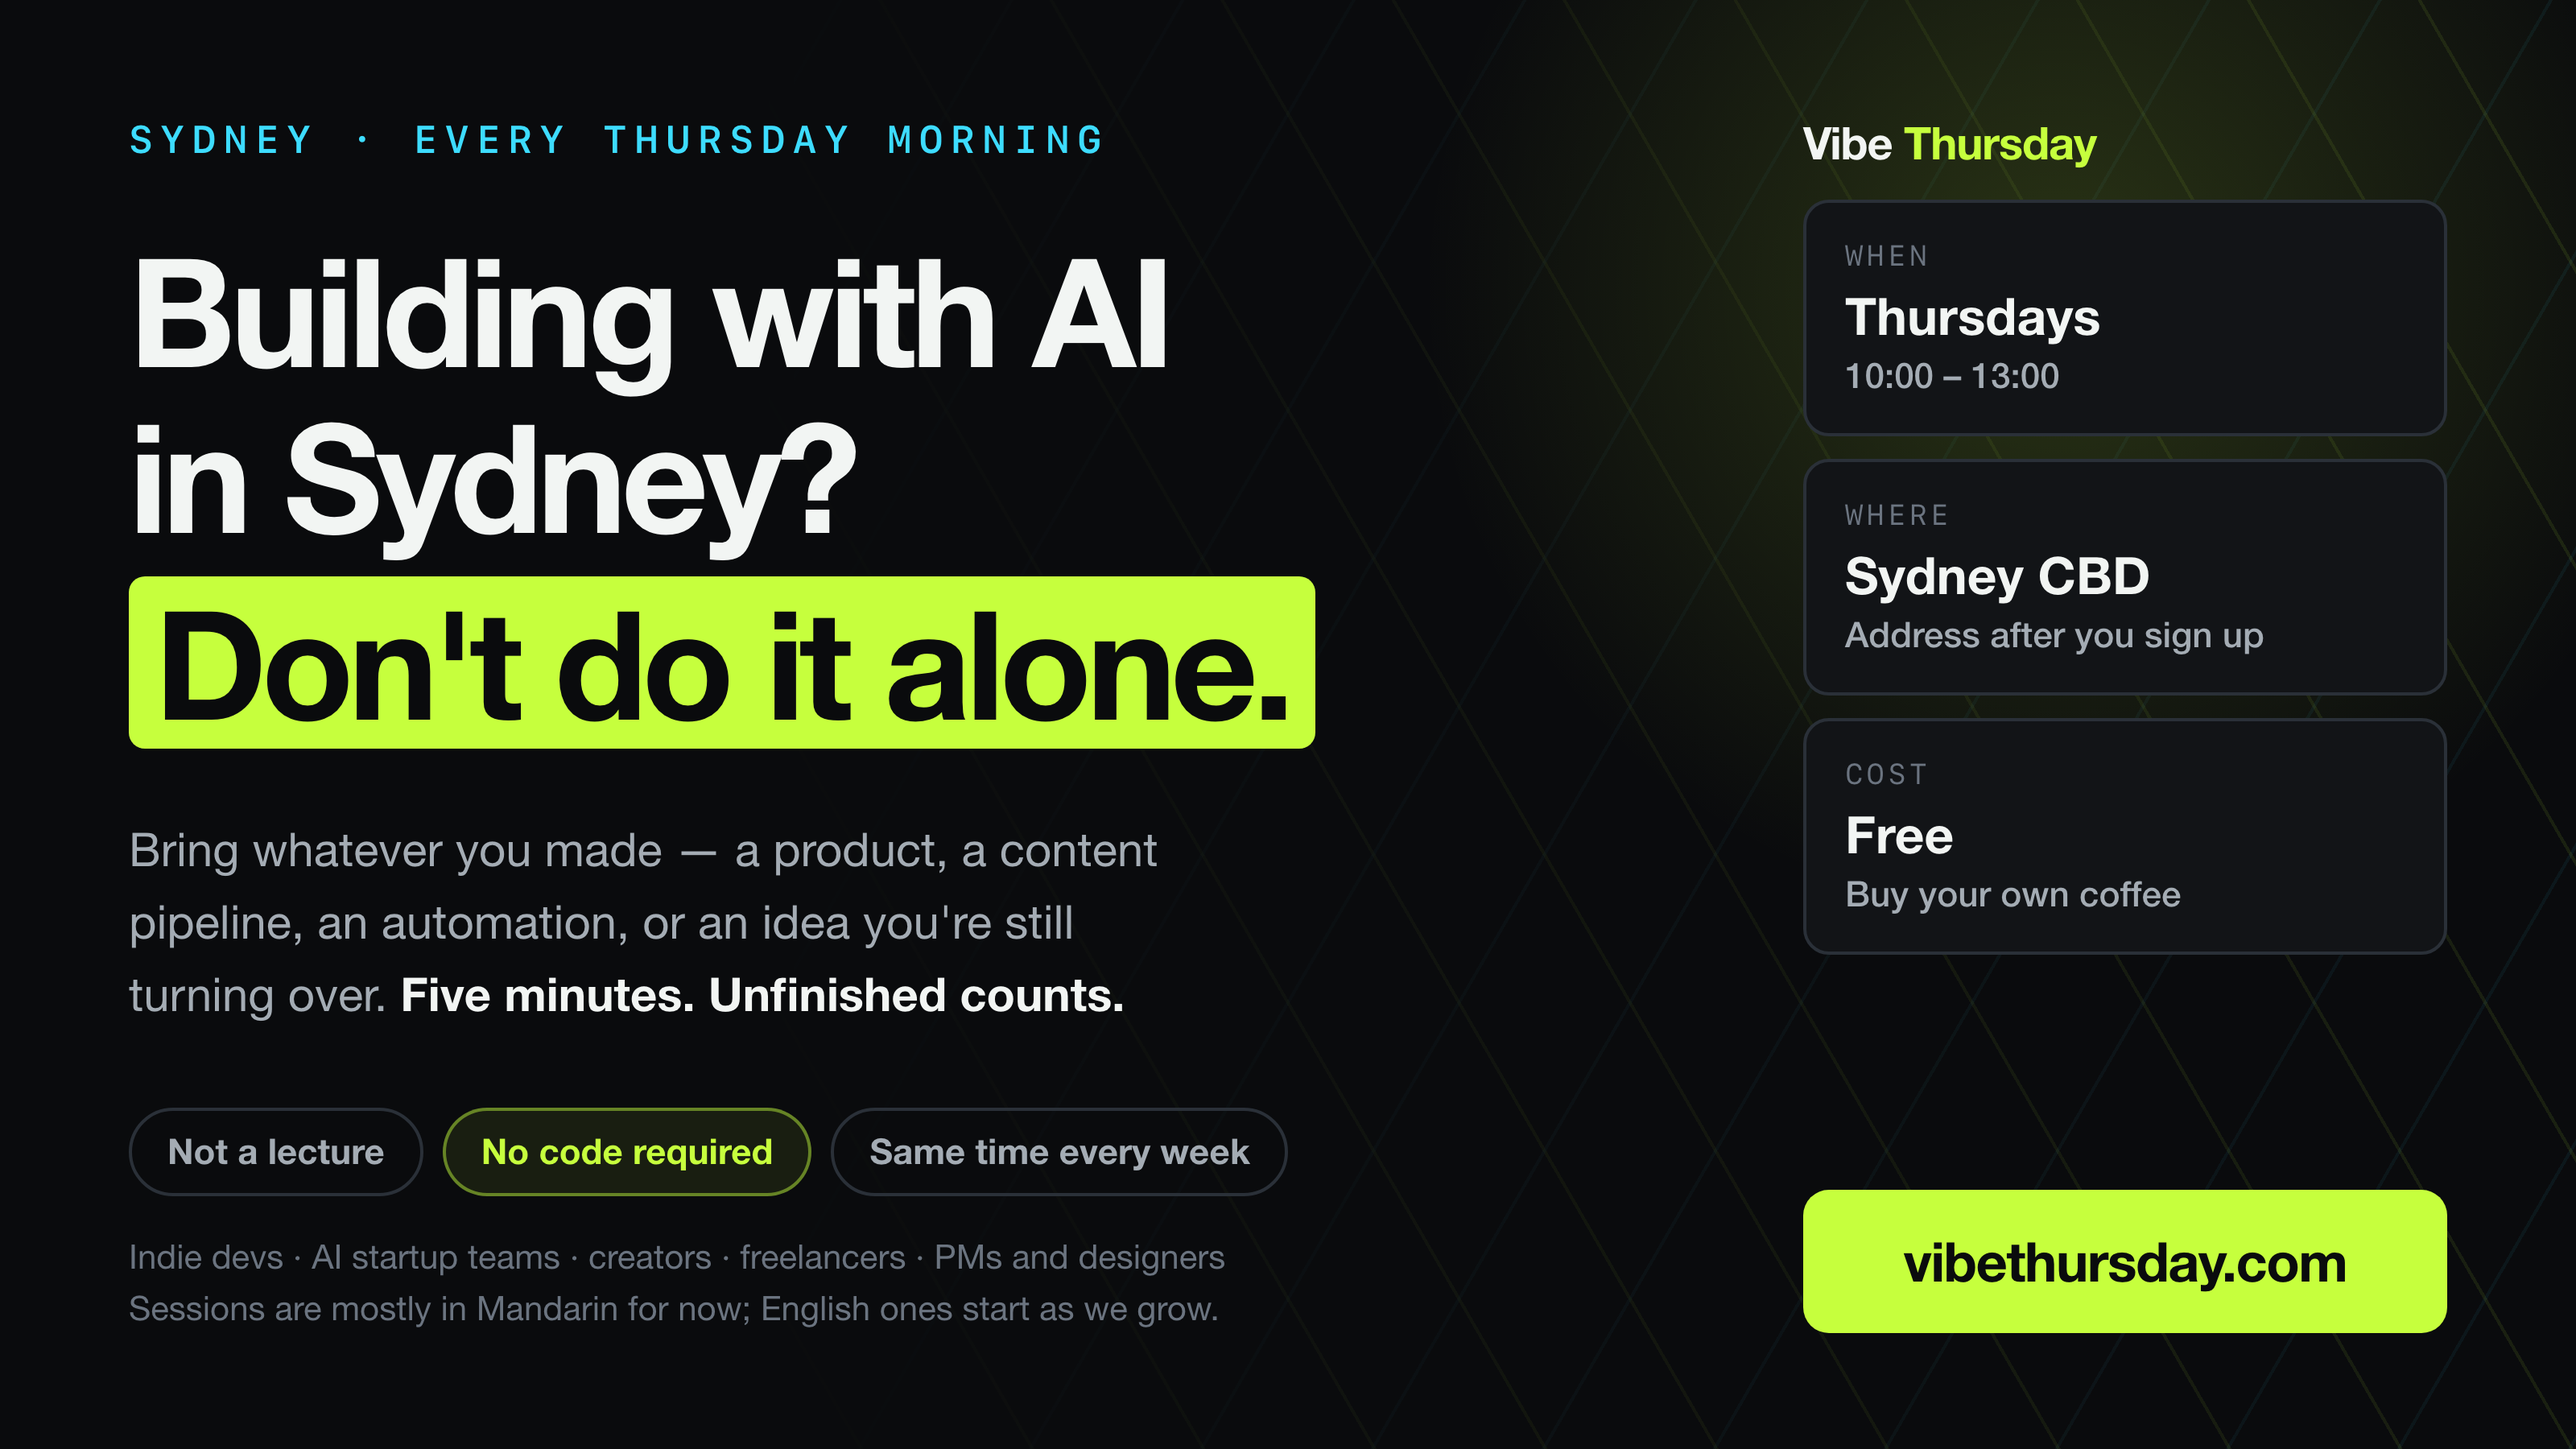
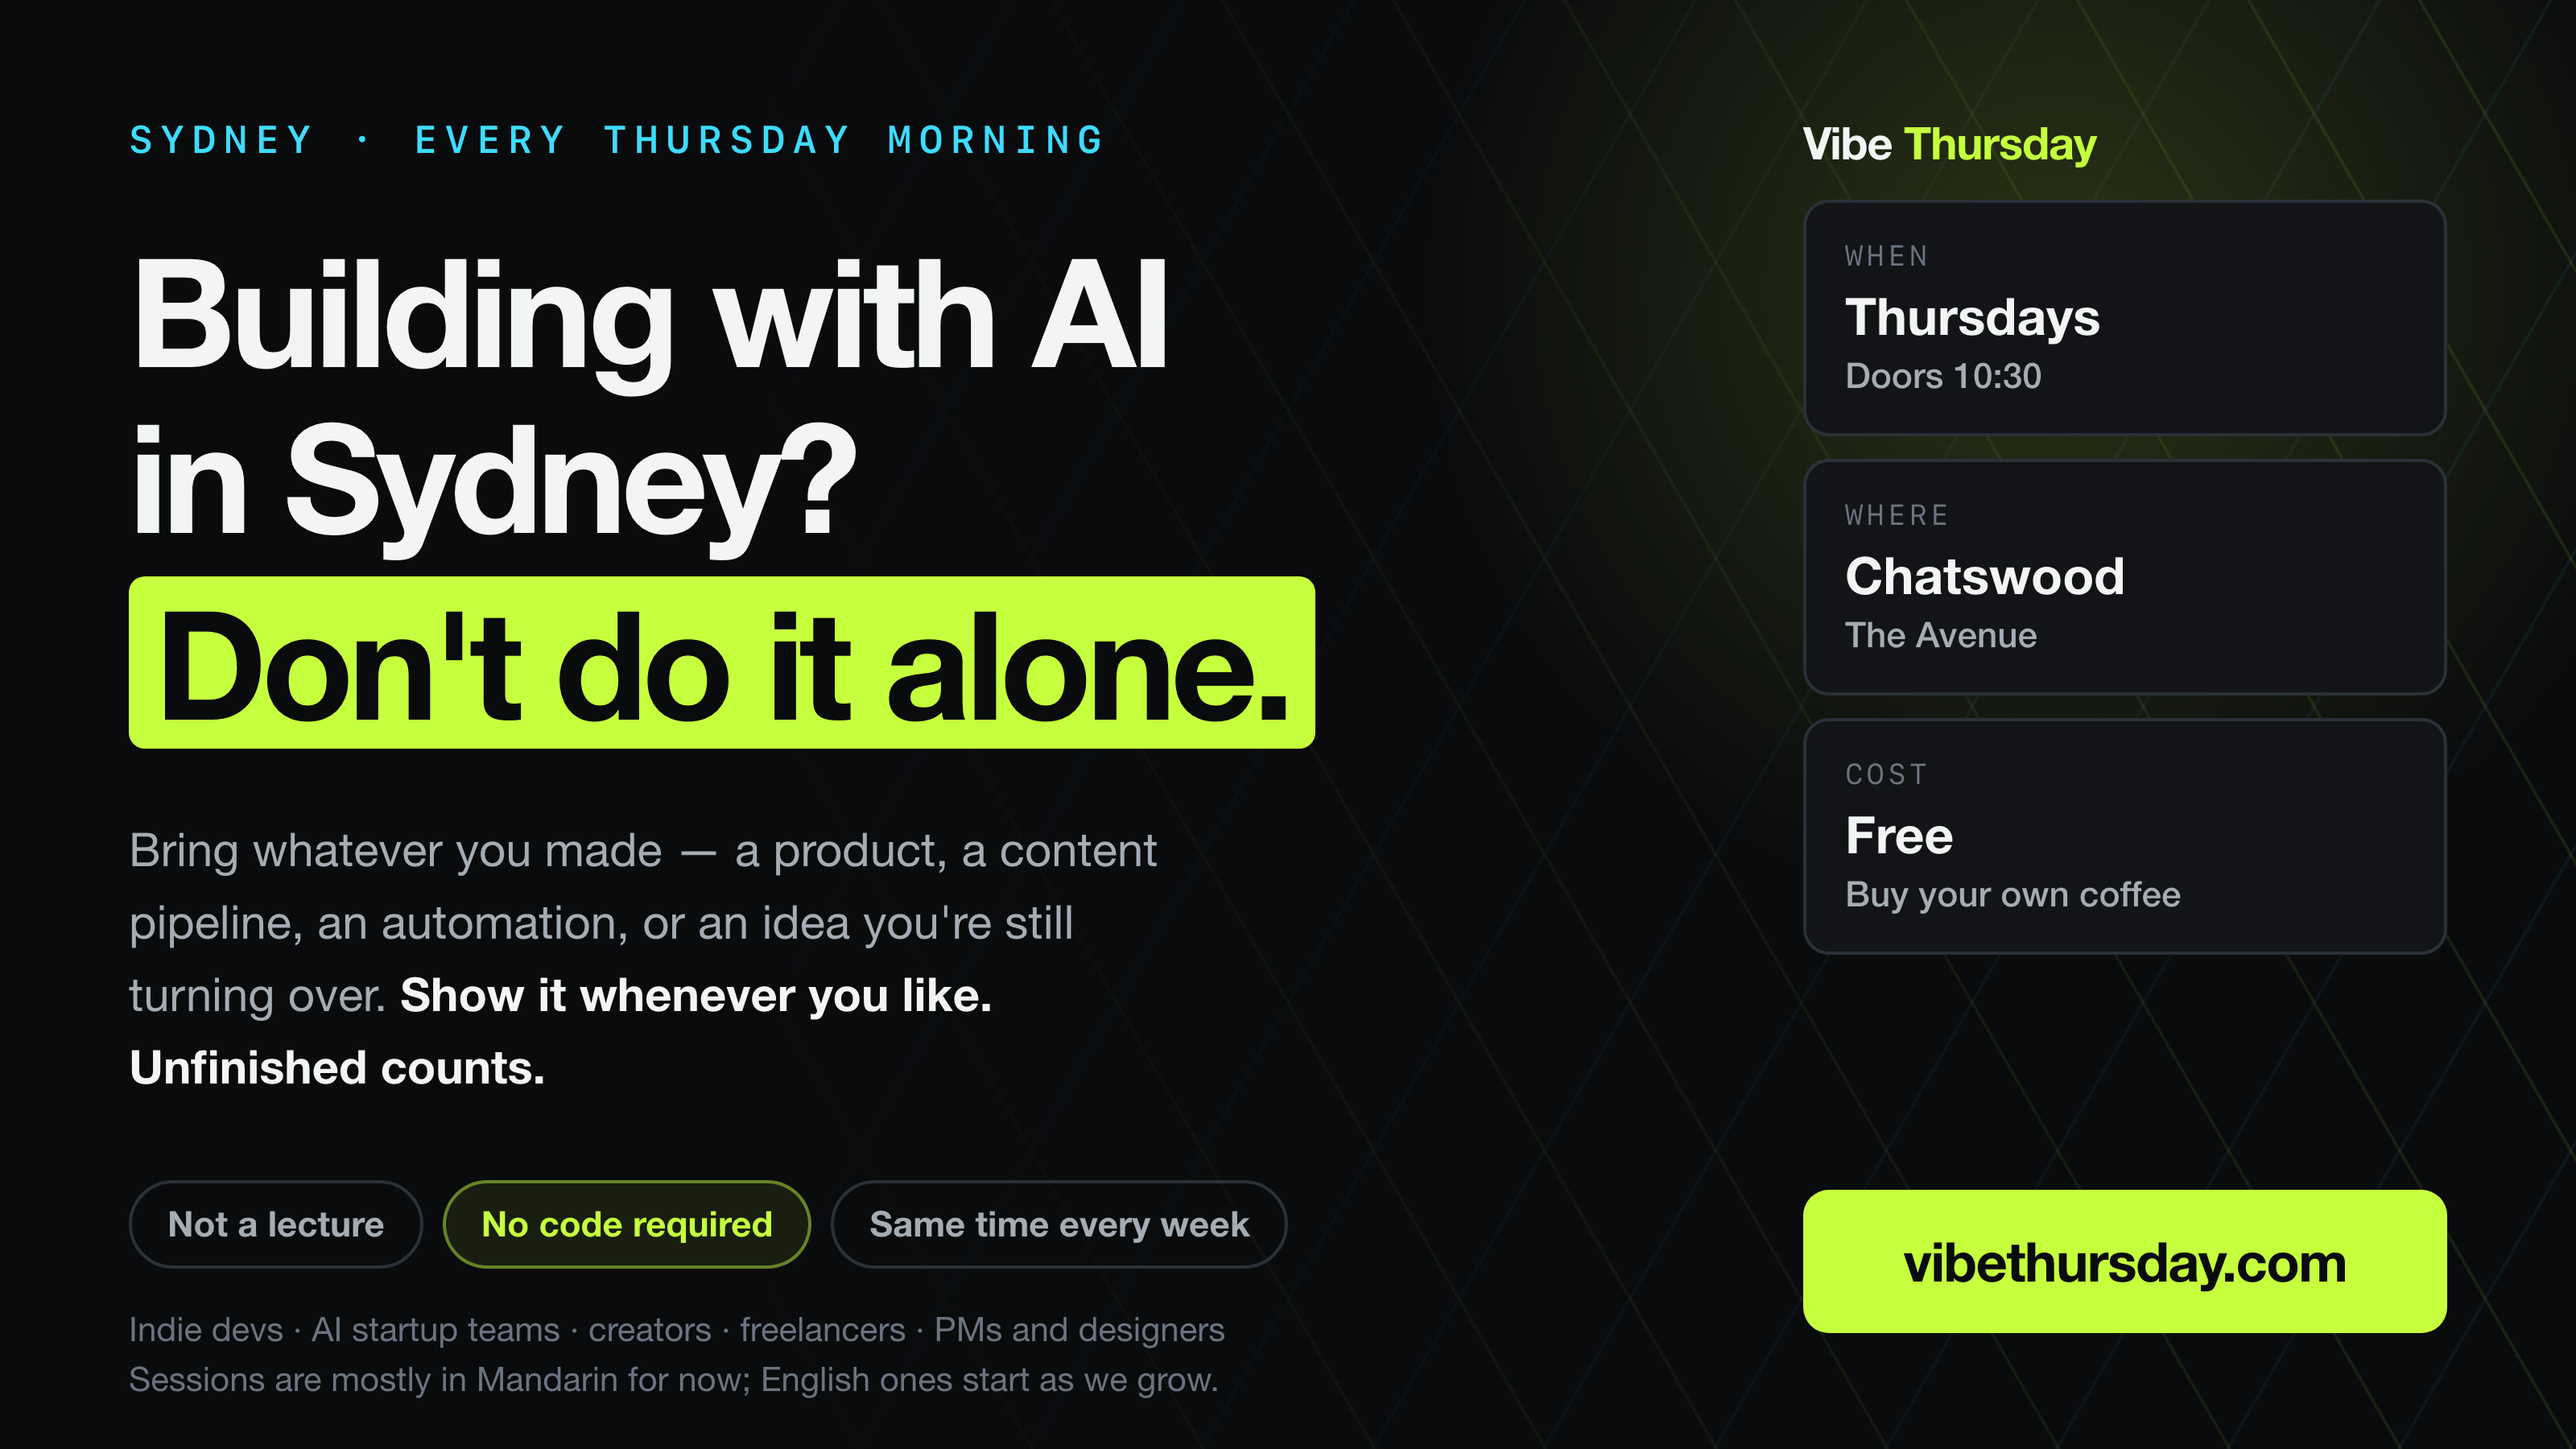
三张分享图在宣传错的地点、错的时间和一个退休了的形式
小红书封面和 X 卡写的还是「悉尼 CBD · 报名后告知」和「10:00–13:00」——搬去
Chatswood、改成 10:30 开门，这两张都没跟上，8 月 4 日生成之后就一直是错的。
三张（含 og）还都在承诺「讲 5 分钟」，而那个形式 8 月 13 日就被小桌制取代了。

只改字，排版一个像素没动：时间改成 10:30 开门，地点改成 Chatswood / The Avenue，
「带上来讲 5 分钟」改成「手上有东西，随时可以给大家看」，费用那句跟站上对齐。
英文那张 X 卡平时不渲染（等英文场开了才用），源文件一起改掉并重渲一次，
免得源和 PNG 又各说各的。

★ 它们能错六个星期而所有测试都绿，是因为那条「不许再承诺退休形式」的测试只扫
copy 文件——而这三张图的字烤在 art/*.html 和 build-og.sh 里。把测试的覆盖面扩到
分享图源文件，并且再加一条：凡是写了地点的卡，必须写站上首页那个地点和那个开门
时间，两者从 hero.facts 里读出来而不是写死——下次再搬场地，没重渲的卡当场挂测试。
（把地点改回「悉尼 CBD」验证过，它确实挂。）

更新记录 v3.0 的日期从 09-16 改成 09-17：16 号是宣布搬场地那天，而对来的人来说，
场地真正变了是 17 号那个早上——那个字段的定义就是「它成为事实的那天」。

diff --git a/art/x-poster-zh.html b/art/x-poster-zh.html
@@ -165,7 +165,7 @@
       </h1>
 
       <p class="sub">
-        产品、自动化、内容流水线、投放打法——带上来讲 <b>5 分钟</b>。<br>
+        产品、自动化、内容流水线、投放打法——<b>手上有东西随时可以看</b>。<br>
         <b>没做完的、只是个想法的，一样算。</b>
       </p>
 
@@ -188,15 +188,15 @@
 
       <dl class="fact">
         <dt>时间</dt>
-        <dd>每周四<small>10:00 – 13:00</small></dd>
+        <dd>每周四<small>10:30 开门</small></dd>
       </dl>
       <dl class="fact">
         <dt>地点</dt>
-        <dd>悉尼 CBD<small>报名后告知</small></dd>
+        <dd>Chatswood<small>The Avenue</small></dd>
       </dl>
       <dl class="fact">
         <dt>费用</dt>
-        <dd>免费<small>咖啡自理</small></dd>
+        <dd>免费<small>点杯喝的就行</small></dd>
       </dl>
 
       <div class="url">vibethursday.com</div>

diff --git a/art/xhs-poster.html b/art/xhs-poster.html
@@ -188,7 +188,7 @@
 
     <p class="sub">
       产品、自动化、内容流水线、投放打法——<br>
-      带上来讲 <b>5 分钟</b>。<b>没做完的一样算。</b>
+      手上有东西，<b>随时可以给大家看</b>。<b>没做完的一样算。</b>
     </p>
 
     <div class="chips">
@@ -202,15 +202,15 @@
     <dl class="facts">
       <div class="fact">
         <dt>时间</dt>
-        <dd>每周四<br><small>10:00–13:00</small></dd>
+        <dd>每周四<br><small>10:30 开门</small></dd>
       </div>
       <div class="fact">
         <dt>地点</dt>
-        <dd>悉尼 CBD<br><small>报名后告知</small></dd>
+        <dd>Chatswood<br><small>The Avenue</small></dd>
       </div>
       <div class="fact">
         <dt>费用</dt>
-        <dd>免费<br><small>咖啡自理</small></dd>
+        <dd>免费<br><small>点杯喝的就行</small></dd>
       </div>
     </dl>
 

diff --git a/art/x-poster-en.html b/art/x-poster-en.html
@@ -168,7 +168,7 @@
 
       <p class="sub">
         Bring whatever you made — a product, a content pipeline, an automation,
-        or an idea you're still turning over. <b>Five minutes. Unfinished counts.</b>
+        or an idea you're still turning over. <b>Show it whenever you like. Unfinished counts.</b>
       </p>
 
       <div class="grow"></div>
@@ -190,11 +190,11 @@
 
       <dl class="fact">
         <dt>When</dt>
-        <dd>Thursdays<small>10:00 – 13:00</small></dd>
+        <dd>Thursdays<small>Doors 10:30</small></dd>
       </dl>
       <dl class="fact">
         <dt>Where</dt>
-        <dd>Sydney CBD<small>Address after you sign up</small></dd>
+        <dd>Chatswood<small>The Avenue</small></dd>
       </dl>
       <dl class="fact">
         <dt>Cost</dt>

diff --git a/src/lib/changelog.ts b/src/lib/changelog.ts
@@ -74,7 +74,12 @@ export const RELEASES: readonly Release[] = [
   },
   {
     version: "3.0",
-    date: "2026-09-16",
+    // ⚠ 09-17, not 09-16. The 16th is when the move was announced and the
+    // site was updated; the room only changed for anybody on the morning of
+    // the 17th, which is the first session that actually ran there. The field
+    // above is documented as the date it became true, and for a changelog
+    // about the meetup rather than about the website, that is the morning.
+    date: "2026-09-17",
     kind: "major",
     // The venue and the opening time, stated as the home page already states
     // them. Nothing about why, nothing about what it costs — those are
